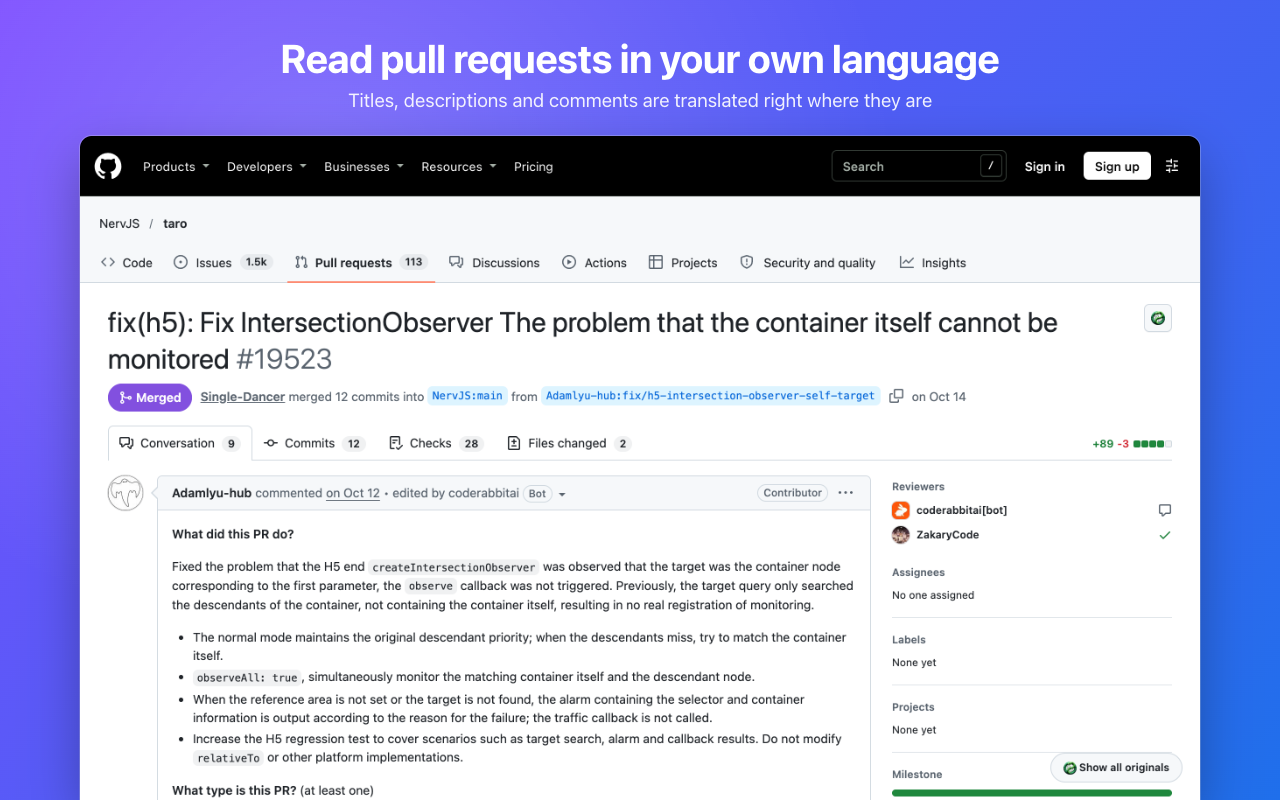
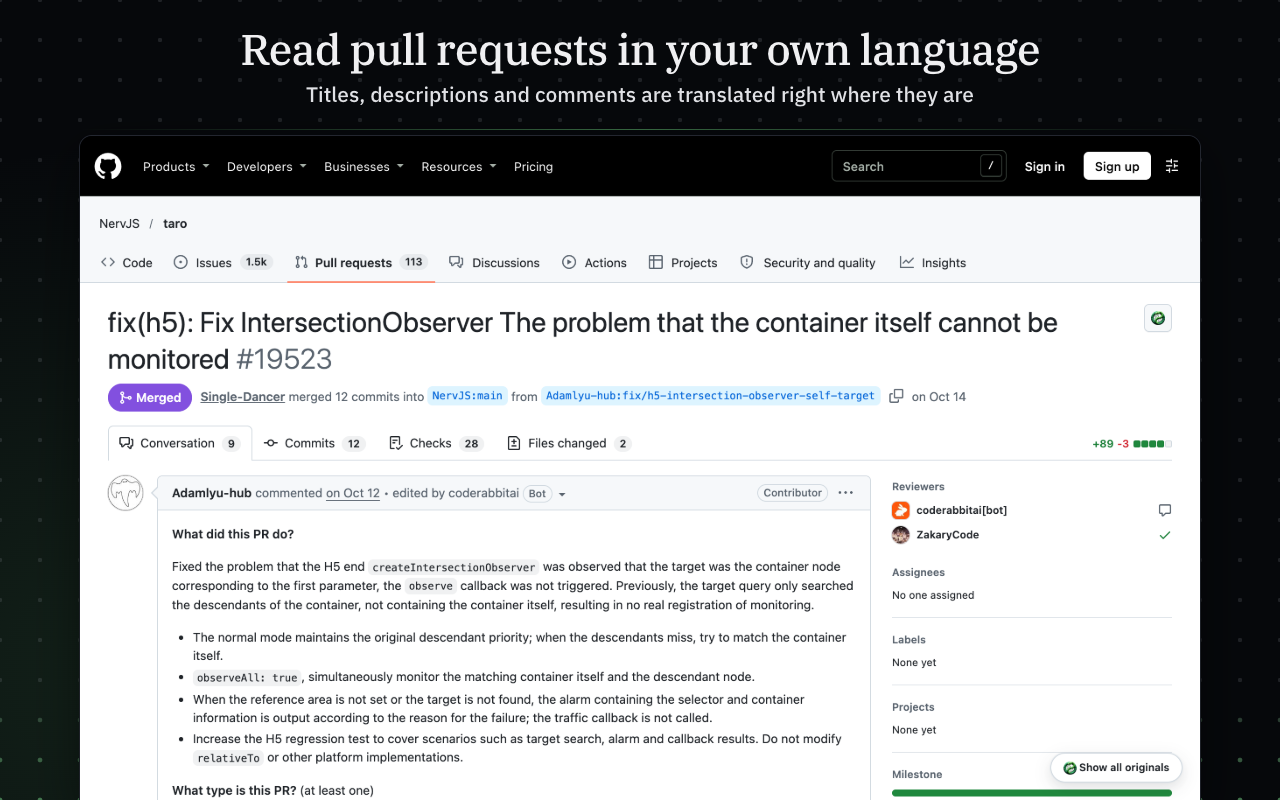
fix(store): style store media like Aspid.FastTools
- Apply the FastTools dark canvas, green accents, and IBM Plex typography.
- Redesign the promo tiles and reframe all English and Russian screenshots.

Changed region(s): [[0.0, 0.0, 1.0, 1.0]]

diff --git a/store/promo/marquee.html b/store/promo/marquee.html
@@ -6,41 +6,48 @@
 <link rel="stylesheet" href="promo.css">
 <style>
   body { width: 1400px; height: 560px; }
-  .tile { height: 100%; display: grid; grid-template-columns: 560px 1fr; align-items: center; padding: 0 72px; gap: 40px; }
-  .brand { display: flex; align-items: center; gap: 20px; }
-  .brand img { width: 96px; height: 96px; filter: drop-shadow(0 10px 24px rgb(0 0 0 / 0.28)); }
-  .name { font-size: 36px; font-weight: 700; line-height: 1.15; letter-spacing: -0.01em; }
-  .tagline { margin: 36px 0 28px; font-size: 44px; font-weight: 700; line-height: 1.15; letter-spacing: -0.015em; }
-  .chips { display: flex; gap: 10px; }
-  .chip { font-size: 18px; padding: 6px 16px; }
-  .cards { position: relative; height: 300px; }
-  .comment { position: absolute; width: 640px; }
-  .original { top: 0; left: 0; transform: rotate(-3deg); opacity: 0.55; }
-  .translated { top: 150px; left: 60px; }
-  .label img { width: 16px; height: 16px; vertical-align: middle; }
+  .tile { height: 100%; display: grid; grid-template-columns: 552px 1fr; align-items: center; padding: 0 80px; gap: 52px; }
+  .brand-logo { width: 146px; margin-bottom: 26px; }
+  h1 { font-size: 49px; }
+  .tagline { margin-top: 15px; font-size: 26px; }
+  .example {
+    overflow: hidden;
+    border: 1px solid var(--line);
+    border-radius: 12px;
+    background: var(--panel);
+    box-shadow: 0 24px 56px rgb(0 0 0 / .4);
+  }
+  .translation { padding: 25px 29px; }
+  .translation + .translation { border-top: 1px solid var(--line); }
+  .label { display: flex; align-items: center; gap: 8px; margin-bottom: 12px; color: var(--muted); font-size: 16px; }
+  .translation:last-child .label { color: var(--accent); }
+  .translation p { font-size: 21px; line-height: 1.5; }
+  .translation code {
+    padding: .1em .3em;
+    border-radius: 4px;
+    background: rgb(146 149 159 / .12);
+    color: var(--strong);
+    font: 85% ui-monospace, monospace;
+  }
 </style>
 </head>
 <body>
-<div class="tile bg">
+<main class="tile bg">
   <div>
-    <div class="brand">
-      <img src="../../assets/banner-logo.svg" alt="">
-      <div class="name">Aspid.Translator.<wbr>GitHub</div>
-    </div>
-    <div class="tagline">Review pull requests<br>in your own language</div>
-    <div class="chips"><span class="chip">Free</span><span class="chip">On-device</span><span class="chip">Private</span><span class="chip">Open source</span></div>
+    <img class="brand-logo" src="../../assets/banner-logo.svg" alt="" width="146" height="146">
+    <h1><span class="brand-prefix">Aspid.</span>Translator.GitHub</h1>
+    <p class="tagline">Read GitHub in your own language</p>
   </div>
-  <div class="cards">
-    <div class="comment original">
-      <div class="comment-head"><span class="avatar"></span><b>contributor</b> commented</div>
-      <div class="comment-body">修复 H5 端 <code>createIntersectionObserver</code> 在目标就是容器自身时，<code>observe</code> 回调不触发的问题。</div>
+  <div class="example">
+    <div class="translation">
+      <div class="label">Original · Chinese</div>
+      <p lang="zh-Hans">修复 H5 端 <code>createIntersectionObserver</code> 在目标就是容器自身时，<code>observe</code> 回调不触发的问题。</p>
     </div>
-    <div class="comment translated">
-      <div class="comment-head"><span class="avatar"></span><b>contributor</b> commented</div>
-      <div class="label"><img src="../../assets/banner-logo.svg" alt=""> Translated: Chinese → English<a>Show original</a></div>
-      <div class="comment-body">Fixes the <code>observe</code> callback not firing in <code>createIntersectionObserver</code> on H5 when the target is the container itself.</div>
+    <div class="translation">
+      <div class="label"><img src="../../assets/banner-logo.svg" alt="" width="19" height="19">Translated · English</div>
+      <p>Fixes the <code>observe</code> callback not firing in <code>createIntersectionObserver</code> on H5 when the target is the container itself.</p>
     </div>
   </div>
-</div>
+</main>
 </body>
 </html>

diff --git a/store/promo/promo.css b/store/promo/promo.css
@@ -1,86 +1,60 @@
+@import url("../../node_modules/@fontsource/ibm-plex-sans/500.css");
+@import url("../../node_modules/@fontsource/ibm-plex-serif/500.css");
+
+:root {
+  --canvas: #06080b;
+  --panel: #10121a;
+  --line: #272b35;
+  --fg: #e1e2e6;
+  --strong: #f0f0f2;
+  --muted: #92959f;
+  --accent: #5cb46b;
+  --sans: "IBM Plex Sans", system-ui, sans-serif;
+  --serif: "IBM Plex Serif", Georgia, serif;
+}
+
 * { box-sizing: border-box; }
-html, body { margin: 0; }
+html, body, h1, p { margin: 0; }
 body {
-  font-family: -apple-system, BlinkMacSystemFont, "SF Pro Display", "Helvetica Neue", sans-serif;
-  color: #fff;
+  background: var(--canvas);
+  color: var(--fg);
+  font: 500 16px/1.4 var(--sans);
   -webkit-font-smoothing: antialiased;
 }
 
+/* The FastTools banner grid with a soft green glow behind the artwork. */
 .bg {
+  --dot-step: 40px;
+  --dot-size: 2px;
+  --glow-origin: 20% 84%;
   position: relative;
+  isolation: isolate;
   overflow: hidden;
-  background: linear-gradient(135deg, #7c4dff 0%, #1f6feb 100%);
+  background:
+    radial-gradient(circle, rgb(146 149 159 / .18) var(--dot-size), transparent calc(var(--dot-size) + .35px))
+      center / var(--dot-step) var(--dot-step),
+    radial-gradient(ellipse at var(--glow-origin), rgb(92 180 107 / .17), transparent 57%),
+    var(--canvas);
 }
 
-/* Soft light in the top left corner, so the flat gradient has some depth. */
 .bg::before {
   content: "";
   position: absolute;
-  inset: -40% auto auto -20%;
-  width: 90%;
-  height: 120%;
-  background: radial-gradient(closest-side, rgb(255 255 255 / 0.18), transparent);
+  inset: 0;
+  z-index: -1;
+  background: radial-gradient(circle, rgb(92 180 107 / .55) var(--dot-size), transparent calc(var(--dot-size) + .8px))
+    center / var(--dot-step) var(--dot-step);
+  mask-image: linear-gradient(to top, #000, transparent calc(3 * var(--dot-step)));
   pointer-events: none;
 }
 
-.bg > * { position: relative; }
-
-.chip {
-  padding: 4px 12px;
-  border-radius: 999px;
-  background: rgb(255 255 255 / 0.18);
-  font-size: 14px;
-  font-weight: 600;
+h1 {
+  color: var(--strong);
+  font-family: var(--serif);
+  font-weight: 500;
+  line-height: 1.08;
+  letter-spacing: -.02em;
 }
 
-/* A GitHub comment, as the extension shows it. */
-.comment {
-  border: 1px solid #d1d9e0;
-  border-radius: 8px;
-  background: #fff;
-  color: #1f2328;
-  box-shadow: 0 18px 40px rgb(15 23 42 / 0.28);
-  font-family: -apple-system, BlinkMacSystemFont, "Segoe UI", "Noto Sans", Helvetica, Arial, sans-serif;
-}
-
-.comment-head {
-  display: flex;
-  align-items: center;
-  gap: 8px;
-  padding: 10px 16px;
-  border-bottom: 1px solid #d1d9e0;
-  border-radius: 8px 8px 0 0;
-  background: #f6f8fa;
-  font-size: 14px;
-  color: #59636e;
-}
-
-.comment-head b { color: #1f2328; }
-
-.avatar {
-  width: 22px;
-  height: 22px;
-  border-radius: 50%;
-  background: linear-gradient(135deg, #fbbf24, #f97316);
-}
-
-.label {
-  padding: 10px 16px 0;
-  font-size: 12px;
-  color: #59636e;
-}
-
-.label a { margin-left: 8px; color: #0969da; }
-
-.comment-body {
-  padding: 8px 16px 16px;
-  font-size: 15px;
-  line-height: 1.55;
-}
-
-.comment-body code {
-  padding: 0.15em 0.4em;
-  border-radius: 6px;
-  background: rgb(129 139 152 / 0.12);
-  font: 85% ui-monospace, SFMono-Regular, Menlo, monospace;
-}
+.brand-prefix { color: var(--accent); }
+.brand-logo { display: block; height: auto; filter: drop-shadow(0 10px 24px rgb(0 0 0 / .45)); }

diff --git a/store/promo/small-tile.html b/store/promo/small-tile.html
@@ -6,22 +6,28 @@
 <link rel="stylesheet" href="promo.css">
 <style>
   body { width: 440px; height: 280px; }
-  .tile { height: 100%; display: flex; flex-direction: column; justify-content: center; gap: 18px; padding: 0 36px; }
-  .brand { display: flex; align-items: center; gap: 14px; }
-  .brand img { width: 64px; height: 64px; filter: drop-shadow(0 6px 14px rgb(0 0 0 / 0.25)); }
-  .name { font-size: 25px; font-weight: 700; line-height: 1.15; letter-spacing: -0.01em; }
-  .tagline { font-size: 21px; font-weight: 600; line-height: 1.3; opacity: 0.95; }
-  .chips { display: flex; gap: 8px; }
+  .tile {
+    --dot-step: 26px;
+    --dot-size: 1.25px;
+    --glow-origin: 50% 78%;
+    height: 100%;
+    display: grid;
+    justify-items: center;
+    align-content: center;
+    gap: 12px;
+    padding: 20px 24px 28px;
+    text-align: center;
+  }
+  .brand-logo { width: 100px; margin-bottom: 5px; }
+  h1 { font-size: 30px; }
+  .tagline { font-size: 19px; }
 </style>
 </head>
 <body>
-<div class="tile bg">
-  <div class="brand">
-    <img src="../../assets/banner-logo.svg" alt="">
-    <div class="name">Aspid.Translator.<wbr>GitHub</div>
-  </div>
-  <div class="tagline">Review pull requests<br>in your own language</div>
-  <div class="chips"><span class="chip">Free</span><span class="chip">On-device</span><span class="chip">Private</span></div>
-</div>
+<main class="tile bg">
+  <img class="brand-logo" src="../../assets/banner-logo.svg" alt="" width="100" height="100">
+  <h1><span class="brand-prefix">Aspid.</span>Translator.GitHub</h1>
+  <p class="tagline">In-page translation for GitHub</p>
+</main>
 </body>
 </html>

diff --git a/store/promo/screenshot.html b/store/promo/screenshot.html
@@ -1,0 +1,43 @@
+<!doctype html>
+<html lang="en">
+<head>
+<meta charset="utf-8">
+<link rel="stylesheet" href="promo.css">
+<style>
+  .shot {
+    height: 100vh;
+    padding: 26px 80px 0;
+    text-align: center;
+  }
+  h1 { font-size: 43px; }
+  p { margin-top: 8px; font-size: 21px; }
+  .shot::after {
+    content: "";
+    position: absolute;
+    top: calc(var(--window-top) - 7px);
+    left: 50%;
+    width: var(--window-width);
+    height: 1px;
+    translate: -50% 0;
+    background: linear-gradient(90deg, transparent, var(--accent), transparent);
+    opacity: .55;
+  }
+  img {
+    position: absolute;
+    top: var(--window-top);
+    left: 50%;
+    width: var(--window-width);
+    translate: -50% 0;
+    border-radius: 12px 12px 0 0;
+    box-shadow: 0 18px 48px rgb(0 0 0 / .5), 0 0 0 1px var(--line);
+  }
+</style>
+</head>
+<body>
+  <main class="shot bg">
+    <h1></h1>
+    <p></p>
+    <img alt="">
+  </main>
+</body>
+</html>
